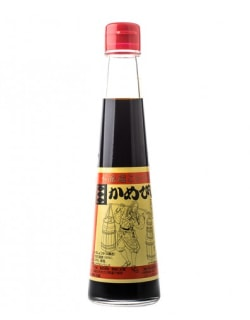
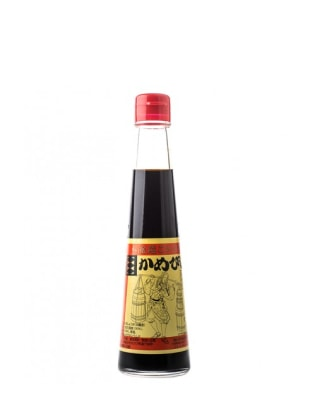
photos optimized

Changed region(s): [[0.336, 0.0625, 0.644, 0.9688]]

diff --git a/html/website/about.html b/html/website/about.html
@@ -42,7 +42,7 @@
       </div>
     </section>
 
-    <!-- NAV SECTION--------------------------------------------------------------   -->
+    <!-- NAV SECTION------------------------------------------------------>
     <nav class="main-nav">
       <div class="main-nav-container slab-black parent-container">
         <div class="main-nav-logo">
@@ -84,13 +84,13 @@
   <!-- ABOUT US SECTION -------------------------------------------->
   <section>
     <div class="parent-container-wrap slab-cream"> <!--about us div starts -->
-     <div class="flexbox-half">
+     <div class="center-container">
       <h1>About Us</h1>
       <p>We're on a mission to make people’s lives saucy! Soy sauce has been such an essential for us growing up, we want to share this amazing stable to every one in the world! We collaborate with many different soy sauce makers around the world, bringing top quality soy sauces to all our customers! </p>
       <img src="../../img/updated-imgs/soysauce-history-450x300.png" alt="Grebox image 964 px wide">
     </div>
 
-    <div class="flexbox-half">
+    <div class="center-container">
       <img src="../../img/updated-imgs/history-of-soysauce-making_aboutus-no1.jpg" alt="Grebox image 964 px wide">
     </div>
   </div> <!-- about us div ends -->
@@ -100,10 +100,10 @@
 <section>
   <div class="parent-container-wrap slab-cream"> <!--about us div starts -->
 
-    <div class="flexbox-half">
+    <div class="center-container">
       <img src="../../img/updated-imgs/history-of-soysauce-making_aboutus-no2.jpg" alt="Grebox image 964 px wide">
     </div>
-    <div class="flexbox-half">
+    <div class="center-container">
       <h1>We Value</h1>
       <p>We firmly believe in transparency in our business. We want to be able to communciate all the ingredients that are used and the process of how soy sauces is made. We hope that through being transparent we are able to build a strong relationship with our customers. We value feedback greatly as well!  </p>
       <img src="../../img/updated-imgs/man-making-soysauce-450x300.jpg" alt="Grebox image 964 px wide">

diff --git a/html/website/products.html b/html/website/products.html
@@ -67,7 +67,7 @@ function filterFunction() {
       <div class="main-nav-container slab-black parent-container">
         <div class="main-nav-logo">
           <a href="home_page.html">
-            <img class="logo-width" src="../../img/Saucyboys_Logo.png" alt="Saucyboys website logo">
+            <img class="logo-width" src="../../img/Saucyboys_Logo.png" alt="Saucyboys website logo" height="27" width="197">
           </a>
         </div>
         <div class="main-nav-items"  id="myLinks">
